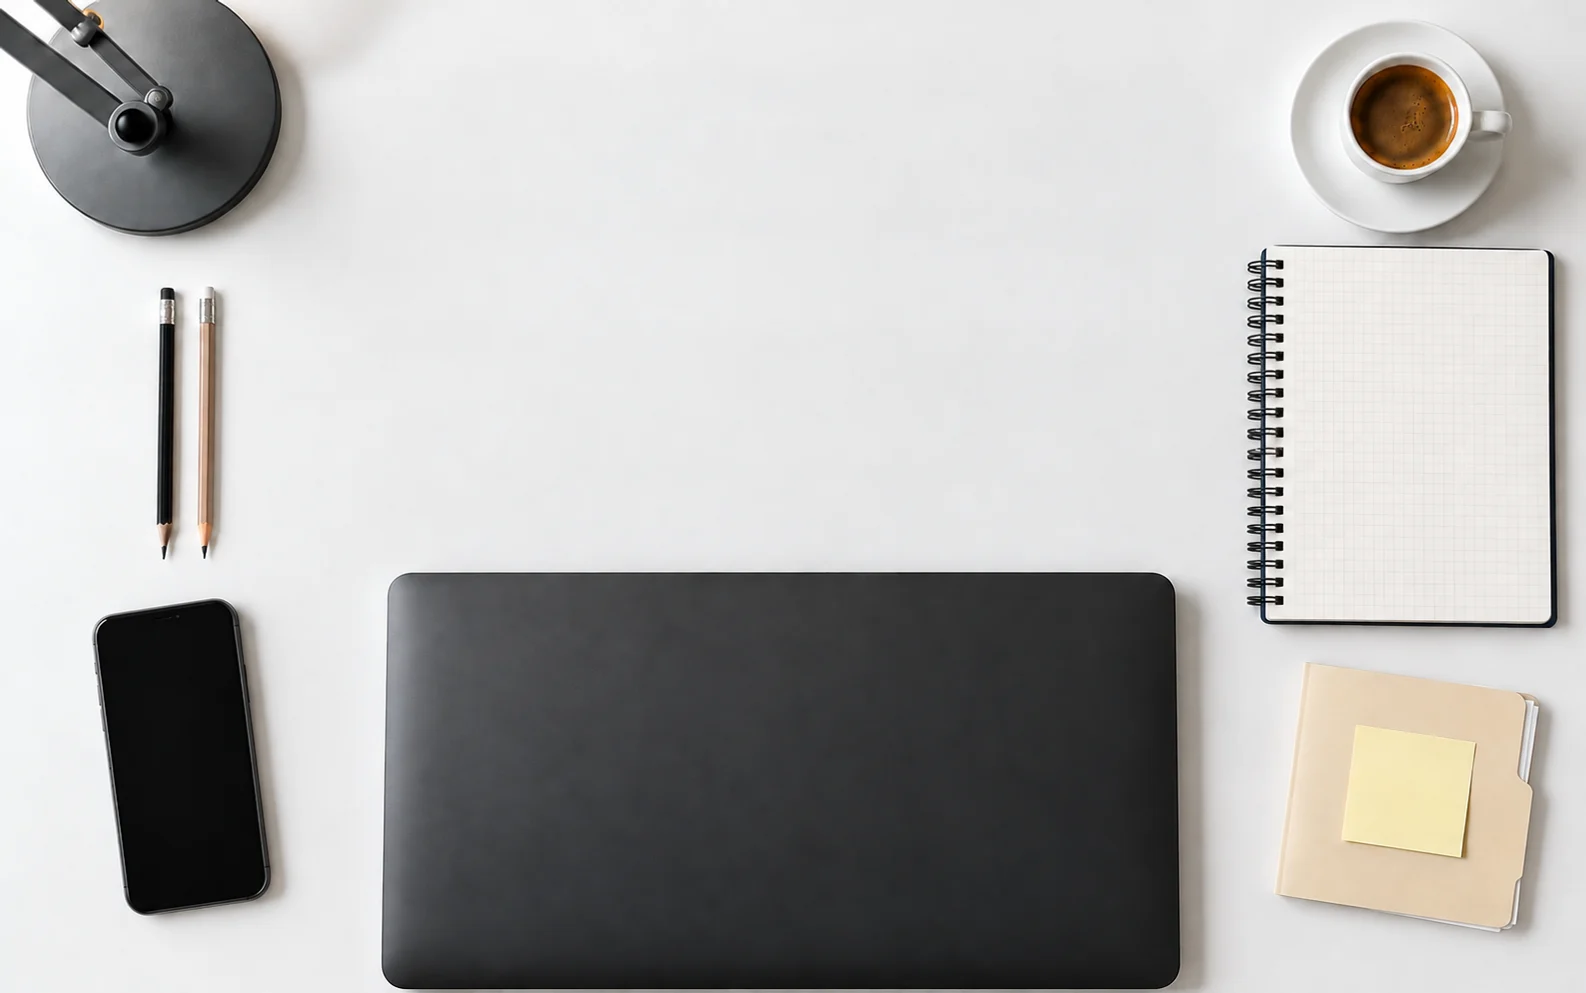
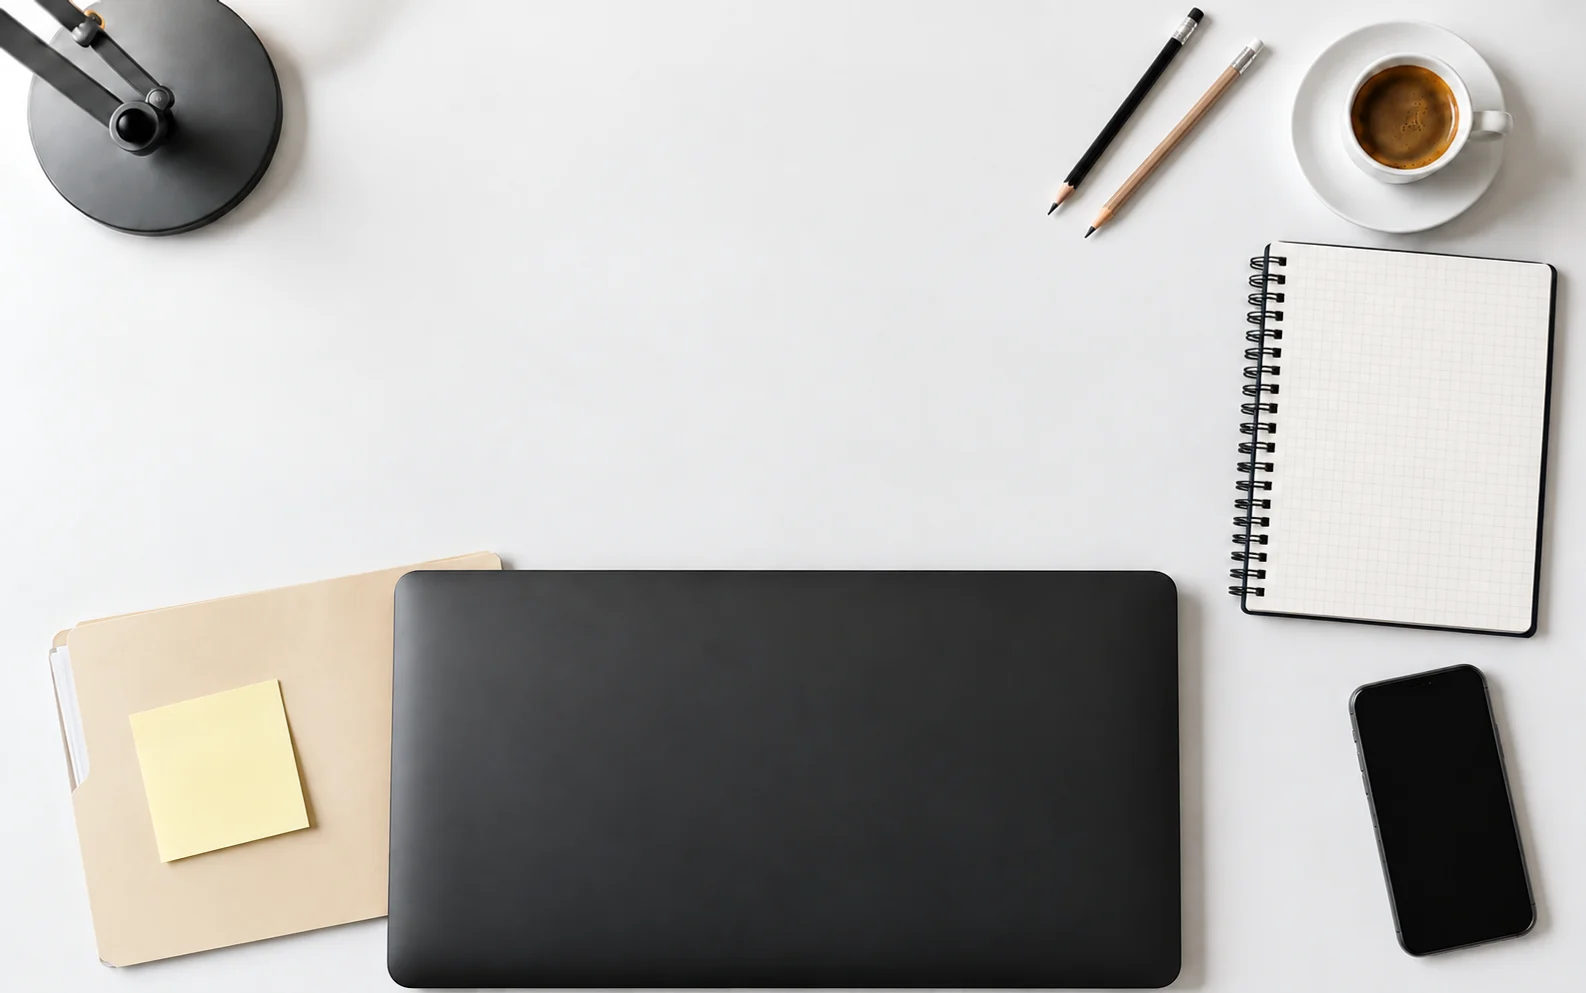
Da una disposición más natural al escritorio y refuerza la identidad

diff --git a/src/styles/scene.css b/src/styles/scene.css
@@ -87,24 +87,24 @@
 }
 .desk-introduction h1 {
   font-family: var(--code-font);
-  font-size: clamp(36px, 5.6cqw, 88px);
+  font-size: clamp(42px, 7.2cqw, 112px);
   font-weight: 800;
-  letter-spacing: -0.08em;
-  line-height: 1.2;
+  letter-spacing: -0.095em;
+  line-height: 1.12;
   margin: 16px 0 20px;
 }
 .desk-introduction h1 span {
   color: var(--accent);
 }
 .desk-role {
-  font-size: clamp(13px, 1.35cqw, 21px);
-  font-weight: 500;
+  font-size: clamp(15px, 1.6cqw, 24px);
+  font-weight: 600;
   line-height: 1.5;
 }
 .desk-description {
   margin-top: 12px;
   color: #526166;
-  font-size: clamp(11px, 1.15cqw, 18px);
+  font-size: clamp(12px, 1.25cqw, 19px);
   line-height: 1.6;
 }
 .desk-notebook {
@@ -112,6 +112,7 @@
   z-index: 2;
   inset: 27% 3.8% auto 81.8%;
   height: 33%;
+  rotate: 4deg;
   display: flex;
   flex-direction: column;
   justify-content: center;
@@ -195,17 +196,11 @@
   outline-offset: -9px;
 }
 .laptop-monogram {
-  font-family: var(--code-font);
-  font-size: clamp(36px, 4.8cqw, 78px);
-  font-weight: 800;
-  letter-spacing: -0.18em;
-  padding-right: 0.18em;
-  line-height: 1;
-  text-shadow:
-    0 1px 1px #ffffff40,
-    0 -1px 2px #00000080;
+  width: clamp(42px, 5.2cqw, 78px);
+  height: auto;
+  filter: drop-shadow(0 1px 0 #ffffff18) drop-shadow(0 -1px 1px #00000060);
   transition:
-    color 0.2s,
+    filter 0.2s,
     transform 0.2s;
 }
 .laptop-hint {
@@ -223,7 +218,7 @@
 }
 .explore-button:hover .laptop-monogram,
 .explore-button:focus-visible .laptop-monogram {
-  color: #e2e8eb;
+  filter: drop-shadow(0 1px 0 #ffffff30) drop-shadow(0 -1px 1px #00000080);
   transform: scale(1.035);
 }
 .explore-button:hover .laptop-hint,
@@ -241,11 +236,11 @@
   border-radius: 14px;
 }
 .desk-access-contact {
-  left: 6.65%;
-  top: 61.15%;
-  width: 9.55%;
-  height: 30.3%;
-  rotate: -8deg;
+  left: 86.15%;
+  top: 68.3%;
+  width: 8.9%;
+  height: 27.25%;
+  rotate: -11deg;
   color: #eff6f8;
 }
 .phone-screen-content {
@@ -277,16 +272,19 @@
   color: #b2e7fa;
 }
 .desk-access-cv {
-  left: 80.4%;
-  top: 66.65%;
-  width: 16.6%;
-  height: 27.1%;
+  /* Only the exposed folder is clickable; the lid keeps its own target. */
+  --postit-left: 54%;
+  --postit-top: 51%;
+  left: 2.8%;
+  top: 59%;
+  width: 20.3%;
+  height: 36%;
 }
 .folder-postit-label {
   position: absolute;
-  left: 51%;
-  top: 47%;
-  transform: translate(-50%, -50%) rotate(8deg);
+  left: var(--postit-left);
+  top: var(--postit-top);
+  transform: translate(-50%, -50%) rotate(-12deg);
   font-family: var(--sketch-font);
   font-size: clamp(28px, 3cqw, 46px);
   font-weight: 600;
@@ -309,9 +307,9 @@
 @media (max-width: 900px) {
   .desk-stage {
     --laptop-left: 8.4%;
-    --laptop-top: 67.4%;
+    --laptop-top: 66.3%;
     --laptop-width: 82.4%;
-    --laptop-height: 31.15%;
+    --laptop-height: 31.4%;
     aspect-ratio: 2 / 3;
     max-width: 100%;
   }
@@ -327,14 +325,14 @@
     padding: 8px 10px;
   }
   .desk-introduction {
-    inset: 4.8% 22% auto;
+    inset: 4.8% 26.5% auto 14.5%;
     height: 18.5%;
   }
   .desk-eyebrow {
     font-size: clamp(9px, 1.9cqw, 14px);
   }
   .desk-introduction h1 {
-    font-size: clamp(22px, 6.8cqw, 50px);
+    font-size: clamp(24px, 8cqw, 60px);
     margin: 8px 0;
   }
   .desk-role {
@@ -346,8 +344,9 @@
     line-height: 1.5;
   }
   .desk-notebook {
-    inset: 26.1% 27.2% auto 29.7%;
-    height: 21.2%;
+    inset: 27.2% 24% auto 30.3%;
+    height: 21%;
+    rotate: 3deg;
   }
   .desk-notebook h2 {
     font-size: clamp(17px, 4cqw, 29px);
@@ -380,11 +379,11 @@
     height: clamp(10px, 3cqw, 21px);
   }
   .desk-access-contact {
-    left: 10.35%;
-    top: 47.8%;
+    left: 84.2%;
+    top: 46%;
     width: 12.8%;
-    height: 17.1%;
-    rotate: -8deg;
+    height: 17%;
+    rotate: -6deg;
   }
   .phone-screen-content {
     gap: 5px;
@@ -394,24 +393,24 @@
     height: clamp(16px, 4cqw, 28px);
   }
   .phone-screen-title {
-    font-size: clamp(8px, 2.2cqw, 15px);
+    font-size: clamp(9px, 2.5cqw, 18px);
   }
   .phone-screen-message {
-    font-size: clamp(7px, 1.7cqw, 11px);
+    font-size: clamp(8px, 1.9cqw, 12px);
   }
   .desk-access-cv {
-    left: 77.2%;
-    top: 46.4%;
-    width: 19.5%;
-    height: 18.4%;
+    --postit-left: 53%;
+    --postit-top: 54%;
+    left: 0.5%;
+    top: 51.3%;
+    width: 25.3%;
+    height: 14.7%;
   }
   .folder-postit-label {
-    top: 43%;
-    left: 50%;
     font-size: clamp(21px, 5cqw, 36px);
   }
   .laptop-monogram {
-    font-size: clamp(36px, 9.5cqw, 66px);
+    width: clamp(42px, 10.5cqw, 72px);
   }
   .laptop-hint {
     font-size: 9px;

diff --git a/src/components/scene/ClosedLaptop.tsx b/src/components/scene/ClosedLaptop.tsx
@@ -1,3 +1,4 @@
+import { useId } from 'react';
 import type { MouseEvent, RefObject } from 'react';
 
 interface Props {
@@ -6,6 +7,8 @@ interface Props {
 }
 
 export default function ClosedLaptop({ portalRef, onExplore }: Props) {
+  const finishId = useId();
+
   return (
     <div className="laptop-portal" ref={portalRef}>
       <button
@@ -14,9 +17,19 @@ export default function ClosedLaptop({ portalRef, onExplore }: Props) {
         aria-label="Explorar proyectos"
         onClick={onExplore}
       >
-        <span className="laptop-monogram" aria-hidden="true">
-          MF
-        </span>
+        <svg className="laptop-monogram" viewBox="0 0 80 64" aria-hidden="true" focusable="false">
+          <defs>
+            <linearGradient id={finishId} x1="0" y1="0" x2="0.3" y2="1">
+              <stop offset="0" stopColor="#282b2e" />
+              <stop offset="0.42" stopColor="#101214" />
+              <stop offset="1" stopColor="#171a1d" />
+            </linearGradient>
+          </defs>
+          <path
+            fill={`url(#${finishId})`}
+            d="M3 54V10h10l14 23 14-23h36v9H52v10h21v9H52v16H42V27L27 47 12 27v27Z"
+          />
+        </svg>
         <span className="laptop-hint">Explorar proyectos</span>
       </button>
     </div>

diff --git a/src/styles/base.css b/src/styles/base.css
@@ -3,7 +3,7 @@
 }
 body {
   margin: 0;
-  min-width: 320px;
+  min-width: min(320px, 100%);
 }
 html {
   scrollbar-gutter: stable;

diff --git a/README.md b/README.md
@@ -37,7 +37,7 @@ Las pruebas de navegación utilizan el soporte nativo de TypeScript de Node 22.1
 
 ## La experiencia
 
-- **Escritorio:** una escena fotorealista completa, con una mesa blanca, portátil negro, teléfono inclinado, libreta de una página y guardafolios bajo la misma luz. La lámpara, los lápices y el café conservan su ubicación. Dos imágenes WebP locales componen las versiones horizontal y vertical. Los objetos forman parte de la escena; la presentación y los bocetos de tecnologías siguen siendo HTML legible, seleccionable y configurable. JetBrains Mono identifica la presentación y el monograma; Caveat da un aspecto de anotación a la libreta. Las dos fuentes se alojan localmente. La cámara mira desde arriba y el portátil cerrado ocupa el borde inferior, centrado.
+- **Escritorio:** una escena fotorealista completa, con una mesa blanca, portátil negro, teléfono inclinado, libreta de una página y guardafolios bajo la misma luz. La lámpara y el café mantienen su ubicación; los lápices descansan junto al café y la carpeta queda parcialmente bajo el portátil. El teléfono ocupa el lado derecho. Dos imágenes WebP locales componen las versiones horizontal y vertical. Los objetos forman parte de la escena; la presentación y los bocetos de tecnologías siguen siendo HTML legible, seleccionable y configurable. JetBrains Mono identifica la presentación; el monograma MF es un SVG con acabado oscuro; Caveat da un aspecto de anotación a la libreta. Las dos fuentes se alojan localmente. La cámara mira desde arriba y el portátil cerrado ocupa el borde inferior, centrado.
 - **Accesos:** `DeskAccess` coloca botones reales sobre el teléfono y el guardafolios. Contacto aparece integrado en la pantalla del teléfono y CV sobre el post-it de la carpeta. El foco indica qué se puede abrir. La imagen y los controles escalan juntos con coordenadas proporcionales; no hay zonas de clic en píxeles fijos. Toda la tapa del portátil permite entrar en los proyectos.
 - **Proyectos:** la tapa del portátil se mide al entrar. Una superficie digital se expande desde esa geometría hasta ocupar el navegador en unos 850 ms. La vuelta invierte el recorrido. Las transformaciones principales usan escala, desplazamiento y opacidad.
 - **Índice editorial:** imágenes amplias y composición alternada. El hover levanta la imagen y muestra un acceso; ese acceso también se ve en dispositivos táctiles. Las fichas son páginas completas dentro del espacio digital, con una transición compartida de su portada.
